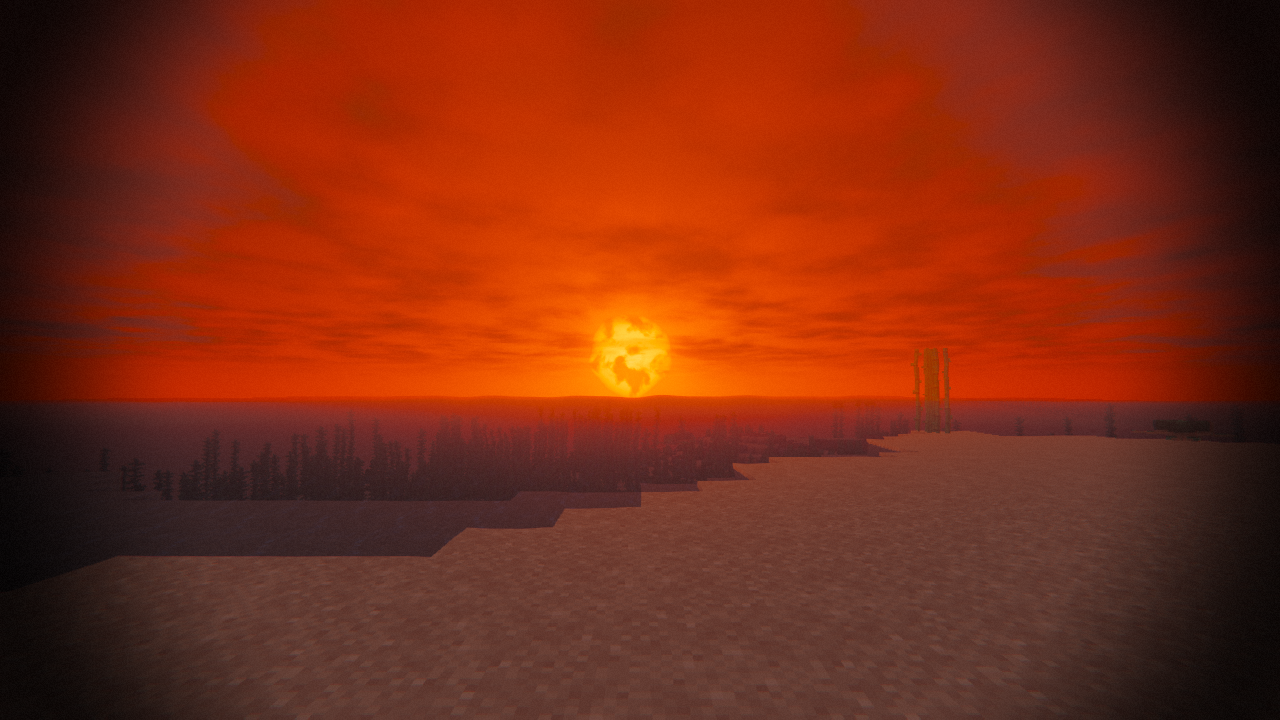
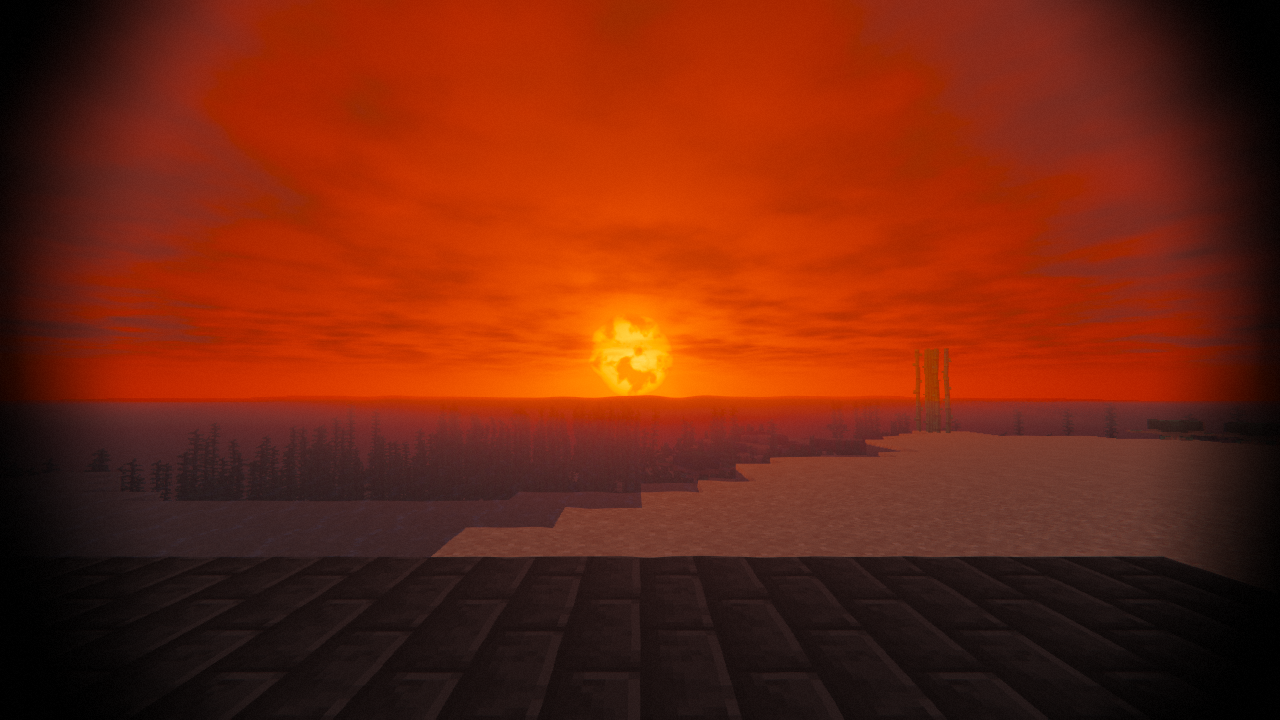
Dread follows light level: thin side strips in light, creeping void in darkness
- Torch light counts as light, so a campfire pushes the darkness back
- Minimum light mainly in dark places so cave silhouettes stay readable
- In-game screenshots of dark / dim / torch-lit rooms

Claude-Session: https://claude.ai/code/session_016CfuqkNr2Ghj5wR5GckFde

diff --git a/README.md b/README.md
@@ -9,6 +9,12 @@ In-game (Forge 1.20.1 + Oculus 1.8.0, software rendering):
 ![away from the sun](docs/ingame_away.png)
 ![side](docs/ingame_side.png)
 
+Dread by light level: total darkness / one distant torch / torches and campfire:
+
+![dark](docs/ingame_dark.png)
+![dim](docs/ingame_dim.png)
+![torch](docs/ingame_torch.png)
+
 ## Features
 - **Frozen sun** (`FROZEN_SUN`): sky and light always come from a dying sun pinned near the horizon, regardless of game time
 - Huge blood-red sun: sunspots, limb darkening, writhing corona/flares
@@ -16,8 +22,9 @@ In-game (Forge 1.20.1 + Oculus 1.8.0, software rendering):
 - Long red shadows, near-zero ambient; torches are the only refuge (small radius, flicker)
 - Choking ash fog: smoldering red toward the sun, black everywhere else
 - Screen-space god rays from the sun
-- **Dread system**: grows in darkness (no sky light) and under the vanilla Darkness effect
-  - creeping darkness tendrils at the screen edges, pulsing with a heartbeat
+- **Dread system**: driven by light around the player (sky light or torches) and the vanilla Darkness effect
+  - in light: only thin ragged dark strips on the screen sides
+  - in darkness: the void creeps in from every edge toward the centre, pulsing with a heartbeat
   - breathing lens distortion, chromatic aberration, film grain, rare flicker
 - Heat haze boiling around the sun, bloom, ACES + grading that bleeds all colour except red
 
